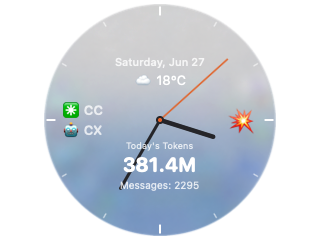
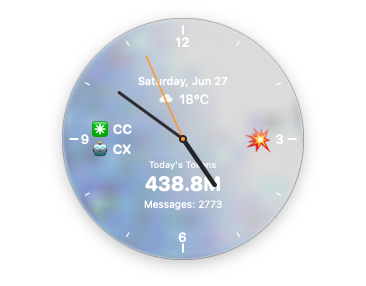
docs(readme): refresh EN hero + add overview (clock + panel together)
- Replace docs/screenshots/hero_en.png with the freshly captured glass-theme
  English hero shot.
- Add docs/screenshots/overview.png — user-provided composite showing the
  clock + expanded dropdown together on the desktop (resized to match the
  themes picker cell, 300x434).
- Both README.en.md and README.md now show the Overview and Theme picker
  side-by-side in a single row instead of stacked.

diff --git a/README.en.md b/README.en.md
@@ -69,10 +69,12 @@ It's built with the macOS 26 **Liquid Glass** material for a crystal clock disc,
     <td width="50%" align="center"><img src="docs/screenshots/dropdown_en.png" alt="dropdown"></td>
   </tr>
   <tr>
-    <td colspan="2" align="center"><b>Theme picker</b> · 6 built-in faces + custom</td>
+    <td width="50%" align="center"><b>Overview</b><br>clock + panel together on the desktop</td>
+    <td width="50%" align="center"><b>Theme picker</b> · 6 built-in faces + custom</td>
   </tr>
   <tr>
-    <td colspan="2" align="center"><img src="docs/screenshots/themes_en.png" alt="themes"></td>
+    <td width="50%" align="center"><img src="docs/screenshots/overview.png" alt="overview"></td>
+    <td width="50%" align="center"><img src="docs/screenshots/themes_en.png" alt="themes"></td>
   </tr>
 </table>
 
